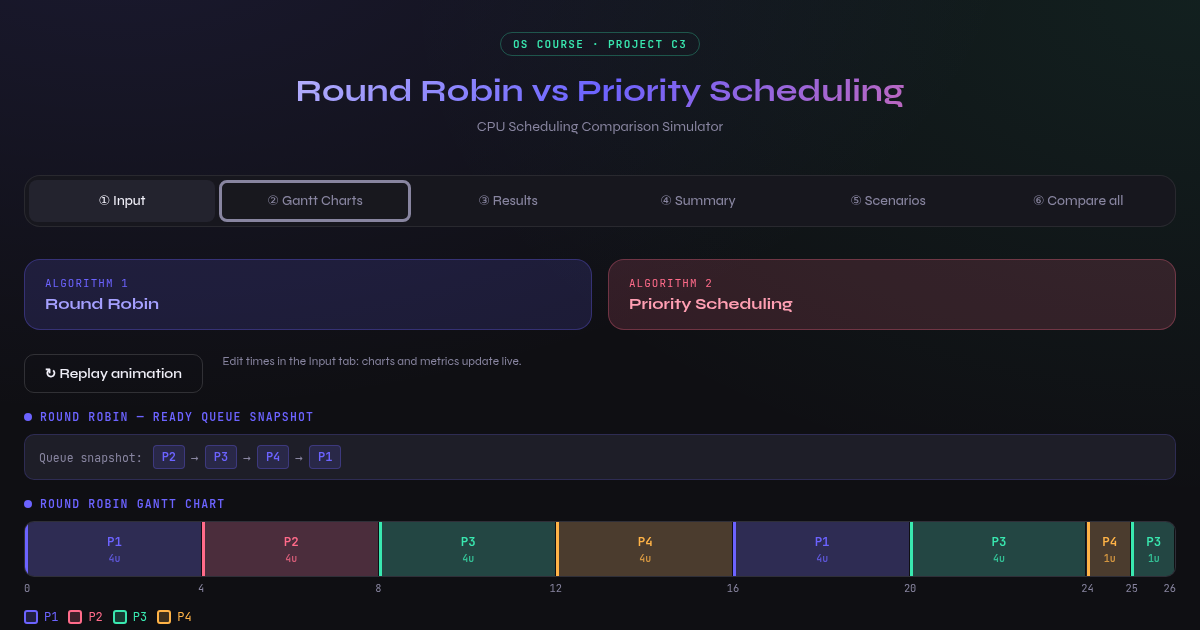
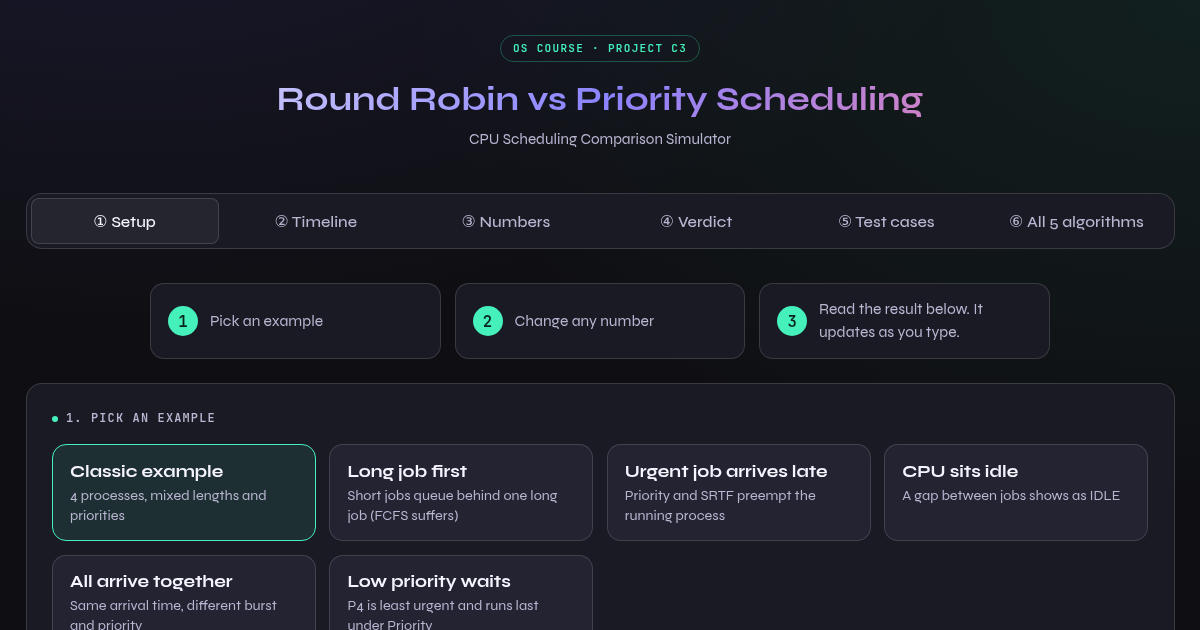
Guided setup, presets, metric tooltips, larger controls, better contrast, mobile layout

diff --git a/index.html b/index.html
@@ -28,77 +28,63 @@
 </div>
 
 <div class="tabs">
-  <button class="tab active" data-tab="input">① Input</button>
-  <button class="tab" data-tab="gantt">② Gantt Charts</button>
-  <button class="tab" data-tab="results">③ Results</button>
-  <button class="tab" data-tab="summary">④ Summary</button>
-  <button class="tab" data-tab="scenarios">⑤ Scenarios</button>
-  <button class="tab" data-tab="compare">⑥ Compare all</button>
+  <button class="tab active" data-tab="input">① Setup</button>
+  <button class="tab" data-tab="gantt">② Timeline</button>
+  <button class="tab" data-tab="results">③ Numbers</button>
+  <button class="tab" data-tab="summary">④ Verdict</button>
+  <button class="tab" data-tab="scenarios">⑤ Test cases</button>
+  <button class="tab" data-tab="compare">⑥ All 5 algorithms</button>
 </div>
 
 <div class="section active" id="sec-input">
+  <ol class="steps" aria-label="How to use">
+    <li><b>1</b><span>Pick an example</span></li>
+    <li><b>2</b><span>Change any number</span></li>
+    <li><b>3</b><span>Read the result below. It updates as you type.</span></li>
+  </ol>
+
   <div class="panel">
-    <div class="panel-title">Time Quantum (Round Robin)</div>
+    <div class="panel-title">1. Pick an example</div>
+    <div class="presets" id="presets"></div>
+  </div>
+
+  <div class="panel">
+    <div class="panel-title">2. Processes <span class="live-note">Edit any number. Lower priority number = more urgent.</span></div>
+    <div id="global-err" class="validation-alert"></div>
+    <div class="process-table-wrap">
+      <table id="process-table">
+        <thead>
+          <tr>
+            <th title="Name of the process">Process</th>
+            <th title="Arrival time: when the process enters the ready queue">Arrives at</th>
+            <th title="Burst time: how long the CPU must work on it in total">Needs (burst)</th>
+            <th title="Priority: 1 is the most urgent. Only Priority scheduling uses it">Priority</th>
+            <th></th>
+          </tr>
+        </thead>
+        <tbody id="process-tbody"></tbody>
+      </table>
+    </div>
+    <div class="btn-row">
+      <button class="btn btn-accent" id="btn-add-process">+ Add a process</button>
+      <button class="btn btn-outline" id="btn-clear-all">Clear all</button>
+    </div>
     <div class="quantum-row">
-      <div class="form-group">
-        <label class="quantum-label">QUANTUM (q)</label>
-        <input type="number" id="quantum" value="2" min="1" placeholder="e.g. 2"/>
+      <label class="quantum-label" for="quantum" title="Round Robin gives each process at most this many time units before moving to the next one">Round Robin time slice (quantum)</label>
+      <div class="stepper">
+        <button class="btn btn-outline" id="q-minus" aria-label="Decrease quantum">−</button>
+        <input type="number" id="quantum" value="4" min="1" step="1" inputmode="numeric"/>
+        <button class="btn btn-outline" id="q-plus" aria-label="Increase quantum">+</button>
       </div>
       <div id="quantum-err" class="error-msg"></div>
     </div>
   </div>
 
   <div class="panel">
-    <div class="panel-title">Add Process</div>
-    <div id="global-err" class="validation-alert"></div>
-    <div class="form-row">
-      <div class="form-group">
-        <label>Process ID</label>
-        <input type="text" id="inp-pid" placeholder="e.g. P1"/>
-        <div class="error-msg" id="err-pid"></div>
-      </div>
-      <div class="form-group">
-        <label>Arrival Time</label>
-        <input type="number" id="inp-at" placeholder="e.g. 0" min="0"/>
-        <div class="error-msg" id="err-at"></div>
-      </div>
-      <div class="form-group">
-        <label>Burst Time</label>
-        <input type="number" id="inp-bt" placeholder="e.g. 5" min="1"/>
-        <div class="error-msg" id="err-bt"></div>
-      </div>
-      <div class="form-group">
-        <label>Priority (lower = urgent)</label>
-        <input type="number" id="inp-pr" placeholder="1–99" min="1"/>
-        <div class="error-msg" id="err-pr"></div>
-      </div>
-    </div>
-    <div class="btn-row">
-      <button class="btn btn-accent" id="btn-add-process">+ Add Process</button>
-      <button class="btn btn-outline" id="btn-load-demo">Load Demo</button>
-      <button class="btn btn-outline" id="btn-clear-all">Clear All</button>
-    </div>
+    <div class="panel-title">3. Result at a glance <span class="live-note">Best value in each column is green. Hover a column title for its meaning.</span></div>
+    <div id="glance"><p class="live-note">Add a process to see results.</p></div>
+    <div class="btn-row"><button class="btn btn-run" id="btn-run" disabled>See the Gantt charts →</button></div>
   </div>
-
-  <div class="panel">
-    <div class="panel-title">Process Table <span class="live-note">click any number to edit, results update live</span></div>
-    <div class="process-table-wrap">
-      <table id="process-table">
-        <thead>
-          <tr>
-            <th>PID</th><th>Arrival Time</th><th>Burst Time</th><th>Priority</th><th>Action</th>
-          </tr>
-        </thead>
-        <tbody id="process-tbody">
-          <tr><td colspan="5" class="empty-state">No processes added yet. Add at least 2 to simulate.</td></tr>
-        </tbody>
-      </table>
-    </div>
-  </div>
-
-  <button class="btn btn-run" id="btn-run" disabled>
-    ▶ Run Simulation
-  </button>
 </div>
 
 <div class="section" id="sec-gantt">
@@ -144,6 +130,7 @@
     <p>Run the simulation first to see results.</p>
   </div>
   <div id="results-content" style="display:none">
+    <details class="glossary"><summary>What do WT, TAT and RT mean?</summary><dl><dt>WT, waiting time</dt><dd>Time a process spent ready but not running. Lower is better.</dd><dt>TAT, turnaround time</dt><dd>From arrival until the process finishes (waiting plus running).</dd><dt>RT, response time</dt><dd>From arrival until the process gets the CPU for the first time.</dd><dt>Context switch</dt><dd>The CPU changes from one process to a different one.</dd><dt>CPU utilisation</dt><dd>Share of the time span in which the CPU was busy, not idle.</dd></dl></details>
     <div id="starvation-banner"></div>
     <div class="metrics-row" id="metrics-row"></div>
     <div class="results-grid" id="results-grid"></div>

diff --git a/assets/js/main.js b/assets/js/main.js
@@ -8,14 +8,31 @@ import { detectStarvation, renderSummary } from '../../modules/analysis/analysis
 import { simulateRR } from '../../modules/algorithms/roundRobin.js';
 import { simulatePriority } from '../../modules/algorithms/priority.js';
 import { renderCompareAll } from '../../modules/ui/compareView.js';
+import { PRESETS } from '../../modules/input/presets.js';
+import { renderGlance } from '../../modules/ui/glance.js';
 import { SCENARIOS, buildScenariosTab, renderScenarioResultsHtml } from '../../modules/testing/testScenarios.js';
 
 // Setup Initialization
 document.addEventListener('DOMContentLoaded', () => {
   buildScenariosTab();
-  renderTable(getProcesses());
+  buildPresets();
   attachEventListeners();
+  applyPreset(0);          // sensible default: the classic example, already simulated
 });
+
+function buildPresets() {
+  document.getElementById('presets').innerHTML = PRESETS.map((p, i) =>
+    `<button class="preset" data-preset="${i}"><b>${p.name}</b><span>${p.note}</span></button>`).join('');
+}
+
+function applyPreset(i) {
+  const p = PRESETS[i];
+  setProcesses(p.procs.map(x => ({ ...x })));
+  document.getElementById('quantum').value = p.quantum;
+  document.querySelectorAll('.preset').forEach((b, k) => b.classList.toggle('on', k === i));
+  refreshTableState();
+  runSimulation({ jump: false });
+}
 
 function attachEventListeners() {
   // Global Delegate Listener
@@ -23,6 +40,9 @@ function attachEventListeners() {
     // Tabs
     const tabEl = e.target.closest('.tab');
     if (tabEl) switchTab(tabEl.dataset.tab);
+
+    const pre = e.target.closest('.preset');
+    if (pre) applyPreset(+pre.dataset.preset);
 
     // Remove Process
     const btnDel = e.target.closest('.btn-del[data-action="remove"]');
@@ -50,20 +70,23 @@ function attachEventListeners() {
 
   // Direct Button Listeners
   document.getElementById('btn-add-process').addEventListener('click', () => {
-    if (handleAddProcess()) refreshTableState();
-  });
-
-  document.getElementById('btn-load-demo').addEventListener('click', () => {
-    loadDemoData();
-    document.getElementById('quantum').value = '4';
+    const procs = getProcesses();
+    let n = procs.length + 1;
+    while (procs.some(p => p.pid === 'P' + n)) n++;
+    procs.push({ pid: 'P' + n, at: 0, bt: 3, pr: 1 });
+    document.querySelectorAll('.preset').forEach(b => b.classList.remove('on'));
     refreshTableState();
   });
+  const bump = d => { const q = document.getElementById('quantum'); q.value = Math.max(1, (parseInt(q.value, 10) || 1) + d); liveRun(); };
+  document.getElementById('q-minus').addEventListener('click', () => bump(-1));
+  document.getElementById('q-plus').addEventListener('click', () => bump(1));
 
   document.getElementById('btn-clear-all').addEventListener('click', () => {
     clearAllProcesses();
     refreshTableState();
     ['gantt-placeholder','results-placeholder','summary-placeholder'].forEach(id => document.getElementById(id).style.display = '');
     ['gantt-content','results-content','summary-content'].forEach(id => document.getElementById(id).style.display = 'none');
+    document.getElementById('glance').innerHTML = '<p class="live-note">Add a process to see results.</p>';
   });
 
   document.getElementById('btn-run').addEventListener('click', () => runSimulation());
@@ -90,6 +113,7 @@ function refreshTableState() {
   const procs = getProcesses();
   renderTable(procs);
   document.getElementById('btn-run').disabled = procs.length < 1;
+  if (!procs.length) document.getElementById('glance').innerHTML = '<p class="live-note">Add a process to see results.</p>';
   if (document.getElementById('gantt-content').style.display !== 'none') liveRun();
 }
 
@@ -115,9 +139,9 @@ function runSimulation(opts = {}) {
   gErr.classList.remove('show');
 
   if (!qVal || isNaN(qVal) || !Number.isInteger(+qVal) || +qVal < 1) {
-    gErr.textContent = 'Invalid Time Quantum. Must be a positive integer ≥ 1.';
+    gErr.textContent = 'The time slice (quantum) must be a whole number, 1 or more.';
     gErr.classList.add('show');
-    switchTab('input');
+    if (jump) switchTab('input');
     return;
   }
 
@@ -128,6 +152,7 @@ function runSimulation(opts = {}) {
   }
 
   const quantum = +qVal;
+  renderGlance(procs, quantum);
   const rrResult = simulateRR(procs, quantum);
   const prResult = simulatePriority(procs);
 
@@ -209,4 +234,5 @@ function loadAndRunScenario(idx) {
   renderResults(rrRes, prRes, detectStarvation);
   renderSummary(rrRes, prRes, quantum);
   renderCompareAll(procs, quantum);
+  renderGlance(procs, quantum);
 }

diff --git a/assets/css/style.css b/assets/css/style.css
@@ -295,3 +295,51 @@ tr:hover td { background: var(--surface2); }
 .gantt-chart .gantt-bar{animation:bar-in .4s ease-out both}
 body{background-image:radial-gradient(900px 500px at 10% -10%,rgba(108,99,255,.12),transparent),radial-gradient(800px 500px at 100% 0,rgba(57,232,176,.08),transparent)}
 @media (prefers-reduced-motion:reduce){.gantt-chart .gantt-bar{animation:none}}
+
+/* ===== Usability pass: contrast, size, guided flow, mobile ===== */
+:root{--muted:#b9b6d2;--text:#f6f5ff;--surface:#1a1a24;--surface2:#232331;--border:rgba(255,255,255,.14);--rr:#8b84ff;--pr:#ff7f9c;--accent:#45f0bb}
+html{font-size:17px}
+body{font-family:'Syne',system-ui,sans-serif;line-height:1.5}
+.btn,.tab{min-height:46px;font-size:.95rem}
+.btn{padding:.6rem 1.2rem;border-radius:12px;cursor:pointer}
+.btn:focus-visible,.tab:focus-visible,.preset:focus-visible,.cell-input:focus-visible,input:focus-visible{outline:3px solid var(--accent);outline-offset:2px}
+input[type=number],input[type=text]{min-height:46px;font-size:1rem}
+.cell-input{width:92px;min-height:44px;font-size:1rem}
+.steps{display:flex;gap:.8rem;list-style:none;margin:0 auto 1.4rem;max-width:900px;flex-wrap:wrap}
+.steps li{flex:1 1 220px;display:flex;align-items:center;gap:.7rem;background:var(--surface);border:1px solid var(--border);border-radius:14px;padding:.8rem 1rem;color:var(--muted);font-size:.92rem}
+.steps b{display:grid;place-items:center;flex:none;width:30px;height:30px;border-radius:50%;background:var(--accent);color:#07241b;font-family:'JetBrains Mono',monospace}
+.presets{display:grid;grid-template-columns:repeat(auto-fit,minmax(210px,1fr));gap:.8rem}
+.preset{text-align:left;background:var(--surface2);border:1.5px solid var(--border);border-radius:14px;padding:.9rem 1rem;color:var(--text);cursor:pointer;font-family:inherit;display:flex;flex-direction:column;gap:.25rem;transition:border-color .15s,transform .15s}
+.preset b{font-size:1rem}.preset span{color:var(--muted);font-size:.85rem;line-height:1.35}
+.preset:hover{border-color:var(--rr);transform:translateY(-2px)}
+.preset.on{border-color:var(--accent);background:rgba(69,240,187,.1)}
+.quantum-row{display:flex;flex-wrap:wrap;align-items:center;gap:.8rem 1.2rem;margin-top:1.2rem;padding-top:1rem;border-top:1px solid var(--border)}
+.quantum-label{font-size:.95rem;color:var(--text)}
+.stepper{display:flex;gap:.4rem;align-items:center}
+.stepper input{width:84px;text-align:center}
+.stepper .btn{width:46px;padding:0;font-size:1.3rem}
+.hint{display:inline-grid;place-items:center;width:17px;height:17px;border-radius:50%;background:var(--surface2);border:1px solid var(--border);font-size:.68rem;color:var(--muted);cursor:help}
+th[title]{cursor:help}
+.glossary{margin-bottom:1rem;background:var(--surface);border:1px solid var(--border);border-radius:14px;padding:.8rem 1rem}
+.glossary summary{cursor:pointer;font-weight:600}
+.glossary dl{margin-top:.7rem;display:grid;grid-template-columns:max-content 1fr;gap:.4rem 1rem;font-size:.9rem}
+.glossary dt{color:var(--accent);font-weight:600}.glossary dd{color:var(--muted)}
+.cmp-table td.best{color:#6dfbc9;font-weight:700}
+.cmp-wrap,.process-table-wrap{overflow-x:auto}
+.tabs{overflow-x:auto;scrollbar-width:thin}
+.tab{white-space:nowrap;padding:.6rem 1rem}
+.btn-row{display:flex;flex-wrap:wrap;gap:.7rem;margin-top:1rem}
+@media (max-width:640px){
+  html{font-size:16px}
+  body{padding:1rem .7rem}
+  .header h1{font-size:1.5rem}
+  .cell-input{width:66px;padding:5px}
+  .steps li{flex-basis:100%}
+  .presets{grid-template-columns:1fr}
+  .glossary dl{grid-template-columns:1fr}
+  .btn-run{width:100%}
+  .algo-header{grid-template-columns:1fr!important}
+  .results-grid,.summary-grid,.metrics-row{grid-template-columns:1fr!important}
+}
+.quantum-label{letter-spacing:0;text-transform:none;font-family:'Syne',sans-serif}
+.btn-del{min-width:44px;min-height:44px;font-size:1rem}

diff --git a/modules/ui/tableRenderer.js b/modules/ui/tableRenderer.js
@@ -6,7 +6,7 @@ export const COLORS = [
 export function renderTable(processes) {
   const tbody = document.getElementById('process-tbody');
   if (!processes.length) {
-    tbody.innerHTML = '<tr><td colspan="5" class="empty-state">No processes added yet. Add at least 1 to simulate.</td></tr>';
+    tbody.innerHTML = '<tr><td colspan="5" class="empty-state">No processes yet. Pick an example above or press Add a process.</td></tr>';
     return;
   }
   const cell = (p, f, min, max) => `<td><input class="cell-input" type="number" step="1" min="${min}"${max ? ` max="${max}"` : ''} value="${p[f]}" data-pid="${p.pid}" data-field="${f}" aria-label="${p.pid} ${f}"/></td>`;
@@ -14,7 +14,7 @@ export function renderTable(processes) {
     <tr>
       <td><span class="pid-badge">${p.pid}</span></td>
       ${cell(p, 'at', 0)}${cell(p, 'bt', 1)}${cell(p, 'pr', 1, 99)}
-      <td><button class="btn-del" data-action="remove" data-pid="${p.pid}">Remove</button></td>
+      <td><button class="btn-del" data-action="remove" data-pid="${p.pid}" title="Remove ${p.pid}" aria-label="Remove ${p.pid}">✕</button></td>
     </tr>
   `).join('');
 }
@@ -61,7 +61,7 @@ export function renderResults(rr, pr, detectStarvationCb) {
     return `<div class="results-card">
       <div class="results-card-header ${cls}">${cls === 'rr' ? '⬡ Round Robin' : '◆ Priority Scheduling'}</div>
       <div style="overflow-x:auto">
-      <table><thead><tr><th>PID</th><th>AT</th><th>BT</th><th>PRI</th><th>WT</th><th>TAT</th><th>RT</th></tr></thead>
+      <table><thead><tr><th title="Process">PID</th><th title="Arrival time">AT</th><th title="Burst time: total CPU time needed">BT</th><th title="Priority, 1 = most urgent">PRI</th><th title="Waiting time: ready but not running">WT</th><th title="Turnaround time: arrival until finished">TAT</th><th title="Response time: arrival until first CPU time">RT</th></tr></thead>
       <tbody>${rows}${avgs}</tbody></table></div>
     </div>`;
   };

diff --git a/modules/input/presets.js b/modules/input/presets.js
@@ -1,0 +1,15 @@
+// One-click example workloads. Every note is something you can check on the Timeline tab.
+export const PRESETS = [
+  { name: 'Classic example', note: '4 processes, mixed lengths and priorities', quantum: 4,
+    procs: [{ pid: 'P1', at: 0, bt: 8, pr: 3 }, { pid: 'P2', at: 1, bt: 4, pr: 1 }, { pid: 'P3', at: 2, bt: 9, pr: 4 }, { pid: 'P4', at: 3, bt: 5, pr: 2 }] },
+  { name: 'Long job first', note: 'Short jobs queue behind one long job (FCFS suffers)', quantum: 3,
+    procs: [{ pid: 'A', at: 0, bt: 20, pr: 3 }, { pid: 'B', at: 1, bt: 2, pr: 2 }, { pid: 'C', at: 2, bt: 3, pr: 2 }, { pid: 'D', at: 3, bt: 2, pr: 1 }] },
+  { name: 'Urgent job arrives late', note: 'Priority and SRTF preempt the running process', quantum: 2,
+    procs: [{ pid: 'A', at: 0, bt: 10, pr: 3 }, { pid: 'B', at: 2, bt: 3, pr: 1 }, { pid: 'C', at: 4, bt: 2, pr: 2 }] },
+  { name: 'CPU sits idle', note: 'A gap between jobs shows as IDLE', quantum: 2,
+    procs: [{ pid: 'A', at: 0, bt: 3, pr: 1 }, { pid: 'B', at: 10, bt: 4, pr: 2 }, { pid: 'C', at: 11, bt: 2, pr: 1 }] },
+  { name: 'All arrive together', note: 'Same arrival time, different burst and priority', quantum: 3,
+    procs: [{ pid: 'A', at: 0, bt: 6, pr: 2 }, { pid: 'B', at: 0, bt: 3, pr: 1 }, { pid: 'C', at: 0, bt: 8, pr: 4 }, { pid: 'D', at: 0, bt: 2, pr: 3 }] },
+  { name: 'Low priority waits', note: 'P4 is least urgent and runs last under Priority', quantum: 2,
+    procs: [{ pid: 'P1', at: 0, bt: 4, pr: 1 }, { pid: 'P2', at: 1, bt: 4, pr: 1 }, { pid: 'P3', at: 2, bt: 4, pr: 1 }, { pid: 'P4', at: 0, bt: 2, pr: 5 }] }
+];

diff --git a/modules/ui/glance.js b/modules/ui/glance.js
@@ -1,0 +1,21 @@
+import { compareAll, best } from '../analysis/compareAll.js';
+
+const COLS = [
+  ['avgWt', 'Avg wait', 'Average waiting time: time spent ready but not running. Lower is better.'],
+  ['avgTat', 'Avg turnaround', 'Average turnaround time: from arrival until finished. Lower is better.'],
+  ['avgRt', 'Avg response', 'Average response time: from arrival until first time on the CPU. Lower is better.'],
+  ['contextSwitches', 'Switches', 'Context switches: times the CPU changed to a different process. Fewer means less overhead.']
+];
+
+export function renderGlance(procs, quantum) {
+  const rows = compareAll(procs, quantum);
+  const win = {};
+  COLS.forEach(([k]) => { win[k] = best(rows, k).key; });
+  const f = (k, v) => (k === 'contextSwitches' ? v : v.toFixed(2));
+  document.getElementById('glance').innerHTML = `<div class="cmp-wrap"><table class="cmp-table">
+    <thead><tr><th>Algorithm</th>${COLS.map(c => `<th title="${c[2]}">${c[1]} <span class="hint">?</span></th>`).join('')}
+    <th title="Share of the time span in which the CPU was busy">CPU busy <span class="hint">?</span></th></tr></thead>
+    <tbody>${rows.map(r => `<tr><td><strong>${r.name}</strong></td>
+      ${COLS.map(([k]) => `<td class="${win[k] === r.key ? 'best' : ''}">${f(k, r[k])}</td>`).join('')}
+      <td>${Math.round(r.cpuUtilization * 100)}%</td></tr>`).join('')}</tbody></table></div>`;
+}
